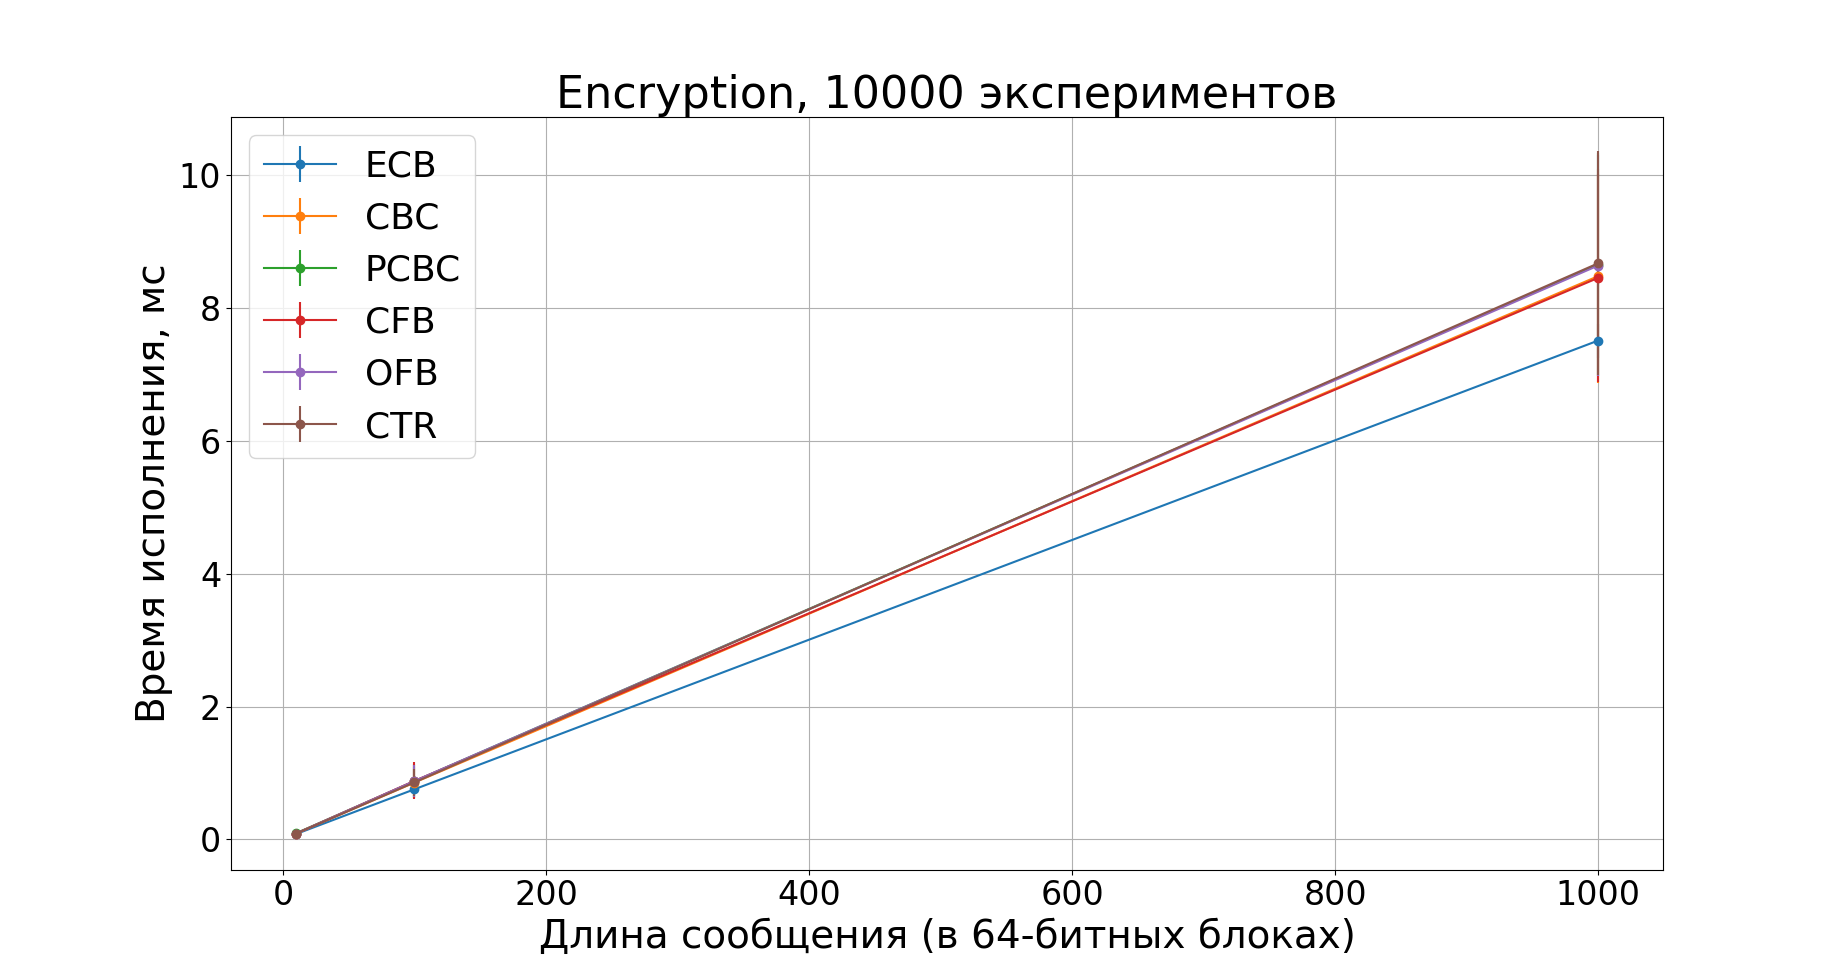
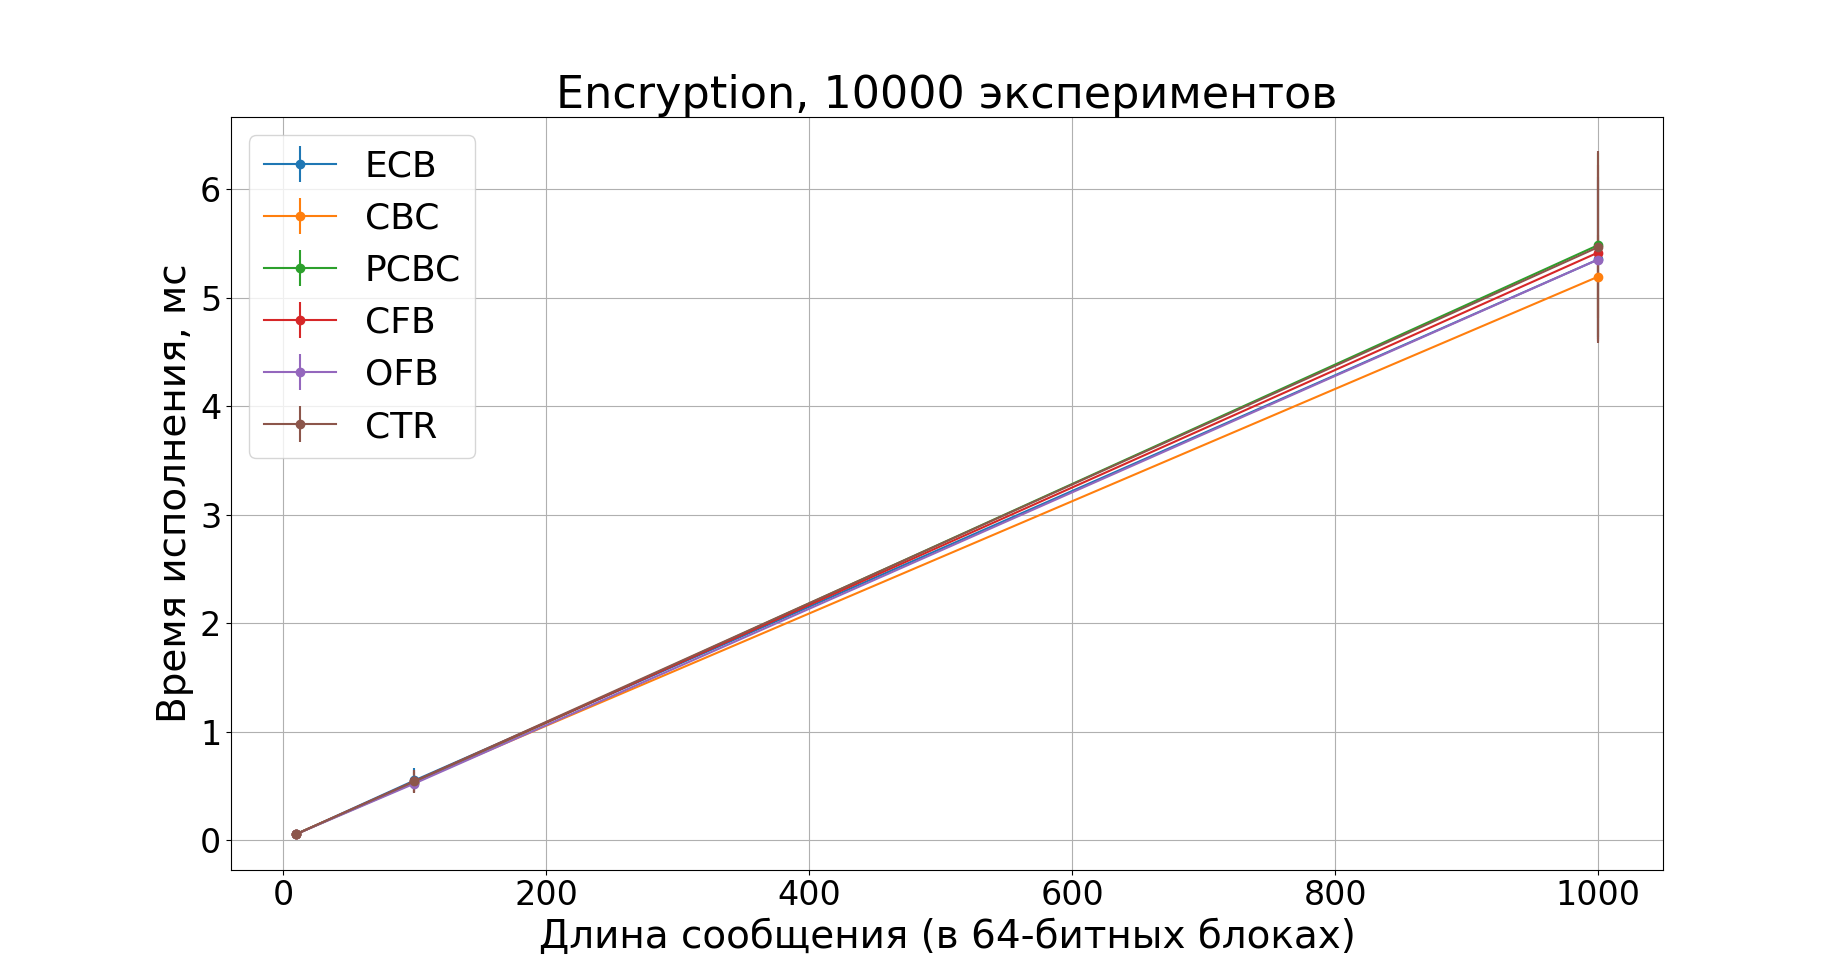
Accelerated DES, removed key expansion from time performance evaluation

diff --git a/DES/des.c b/DES/des.c
@@ -103,7 +103,7 @@ static const uint8_t __P[32] = {
     2 , 8 , 24, 14, 32, 27, 3 , 9 , 19, 13, 30, 6 , 22, 11, 4 , 25,
 };
 
-size_t DES(uint8_t * to, uint8_t mode, uint8_t * keys8b, uint8_t * from, size_t length);
+size_t DES(uint8_t * to, uint8_t mode, uint64_t * keys48b, uint8_t * from, size_t length);
 
 void key_expansion(uint64_t key64b, uint64_t * keys48b);
 void key_permutation_56bits_to_28bits(uint64_t block56b, uint32_t * block32b_1, uint32_t * block32b_2);
@@ -186,6 +186,13 @@ int main(void) {
             user_key[j] = rand() % 256;
         }
         
+        uint64_t keys48b[16] = {0}; // создаются 16 ключей по 48 бит
+
+        key_expansion( // расширение ключа
+            join_8bits_to_64bits(user_key),
+            keys48b
+        );
+
         struct timeval time_1, time_2, time_3;
         
         switch(user_choice) {
@@ -193,13 +200,13 @@ int main(void) {
                 gettimeofday(&time_1, NULL);
                 for (int k = 0; k < number_of_blocks; k++) {
                     extract_block(message, one_block, k);
-                    DES(enc_buf, 'E', user_key, one_block, 8);
+                    DES(enc_buf, 'E', keys48b, one_block, 8);
                     insert_block(cyphertext, enc_buf, k);
                 }
                 gettimeofday(&time_2, NULL);
                 for (int k = 0; k < number_of_blocks; k++) {
                     extract_block(cyphertext, one_block, k);
-                    DES(enc_buf, 'D', user_key, one_block, 8);
+                    DES(enc_buf, 'D', keys48b, one_block, 8);
                     insert_block(decrypted_message, enc_buf, k);
                 }
                 gettimeofday(&time_3, NULL);
@@ -213,26 +220,26 @@ int main(void) {
                 gettimeofday(&time_1, NULL);
                 extract_block(message, one_block, 0);
                 xor_of_two_blocks(one_block, initialize_vector);
-                DES(enc_buf, 'E', user_key, one_block, 8);
+                DES(enc_buf, 'E', keys48b, one_block, 8);
                 insert_block(cyphertext, enc_buf, 0);
 
                 for (int k = 1; k < number_of_blocks; k++) {
                     extract_block(message, one_block, k);
                     xor_of_two_blocks(one_block, enc_buf);
-                    DES(enc_buf, 'E', user_key, one_block, 8);
+                    DES(enc_buf, 'E', keys48b, one_block, 8);
                     insert_block(cyphertext, enc_buf, k);
                 }
                 
                 gettimeofday(&time_2, NULL);
                 
                 extract_block(cyphertext, feedback, 0);
-                DES(enc_buf, 'D', user_key, feedback, 8);
+                DES(enc_buf, 'D', keys48b, feedback, 8);
                 xor_of_two_blocks(enc_buf, initialize_vector);
                 insert_block(decrypted_message, enc_buf, 0);
 
                 for (int k = 1; k < number_of_blocks; k++) {
                     extract_block(cyphertext, tmp_buf, k);
-                    DES(enc_buf, 'D', user_key, tmp_buf, 8);
+                    DES(enc_buf, 'D', keys48b, tmp_buf, 8);
                     xor_of_two_blocks(enc_buf, feedback);
                     copy_block(feedback, tmp_buf);
                     insert_block(decrypted_message, enc_buf, k);
@@ -250,14 +257,14 @@ int main(void) {
                 extract_block(message, one_block, 0);
                 copy_block(feedback, one_block);
                 xor_of_two_blocks(one_block, initialize_vector);
-                DES(enc_buf, 'E', user_key, one_block, 8);
+                DES(enc_buf, 'E', keys48b, one_block, 8);
                 insert_block(cyphertext, enc_buf, 0);
                 xor_of_two_blocks(feedback, enc_buf);
                 for (int k = 1; k < number_of_blocks; k++) {
                     extract_block(message, one_block, k);
                     copy_block(tmp_buf, one_block);
                     xor_of_two_blocks(one_block, feedback);
-                    DES(enc_buf, 'E', user_key, one_block, 8);
+                    DES(enc_buf, 'E', keys48b, one_block, 8);
                     insert_block(cyphertext, enc_buf, k);
                     xor_of_two_blocks(tmp_buf, enc_buf);
                     copy_block(feedback, tmp_buf);
@@ -267,14 +274,14 @@ int main(void) {
 
                 extract_block(cyphertext, one_block, 0);
                 copy_block(feedback, one_block);
-                DES(enc_buf, 'D', user_key, one_block, 8);
+                DES(enc_buf, 'D', keys48b, one_block, 8);
                 xor_of_two_blocks(enc_buf, initialize_vector);
                 insert_block(decrypted_message, enc_buf, 0);
                 xor_of_two_blocks(feedback, enc_buf);
                 for (int k = 1; k < number_of_blocks; k++) {
                     extract_block(cyphertext, one_block, k);
                     copy_block(tmp_buf, one_block);
-                    DES(enc_buf, 'D', user_key, one_block, 8);
+                    DES(enc_buf, 'D', keys48b, one_block, 8);
                     xor_of_two_blocks(enc_buf, feedback);
                     insert_block(decrypted_message, enc_buf, k);
                     xor_of_two_blocks(tmp_buf, enc_buf);
@@ -292,12 +299,12 @@ int main(void) {
 
                 gettimeofday(&time_1, NULL);
 
-                DES(enc_buf, 'E', user_key, initialize_vector, 8);
+                DES(enc_buf, 'E', keys48b, initialize_vector, 8);
                 extract_block(message, one_block, 0);
                 xor_of_two_blocks(one_block, enc_buf);
                 insert_block(cyphertext, one_block, 0);
                 for (int k = 1; k < number_of_blocks; k++) {
-                    DES(enc_buf, 'E', user_key, one_block, 8);
+                    DES(enc_buf, 'E', keys48b, one_block, 8);
                     extract_block(message, one_block, k);
                     xor_of_two_blocks(one_block, enc_buf);
                     insert_block(cyphertext, one_block, k);
@@ -305,12 +312,12 @@ int main(void) {
 
                 gettimeofday(&time_2, NULL);
                 
-                DES(enc_buf, 'E', user_key, initialize_vector, 8);
+                DES(enc_buf, 'E', keys48b, initialize_vector, 8);
                 extract_block(cyphertext, one_block, 0);
                 xor_of_two_blocks(enc_buf, one_block);
                 insert_block(decrypted_message, enc_buf, 0);
                 for (int k = 1; k < number_of_blocks; k++) {
-                    DES(enc_buf, 'E', user_key, one_block, 8);
+                    DES(enc_buf, 'E', keys48b, one_block, 8);
                     extract_block(cyphertext, one_block, k);
                     xor_of_two_blocks(enc_buf, one_block);
                     insert_block(decrypted_message, enc_buf, k);
@@ -326,13 +333,13 @@ int main(void) {
                 
                 gettimeofday(&time_1, NULL);
 
-                DES(enc_buf, 'E', user_key, initialize_vector, 8);
+                DES(enc_buf, 'E', keys48b, initialize_vector, 8);
                 copy_block(feedback, enc_buf);
                 extract_block(message, one_block, 0);
                 xor_of_two_blocks(enc_buf, one_block);
                 insert_block(cyphertext, enc_buf, 0);
                 for (int k = 1; k < number_of_blocks; k++) {
-                    DES(enc_buf, 'E', user_key, feedback, 8);
+                    DES(enc_buf, 'E', keys48b, feedback, 8);
                     copy_block(feedback, enc_buf);
                     extract_block(message, one_block, k);
                     xor_of_two_blocks(enc_buf, one_block);
@@ -341,13 +348,13 @@ int main(void) {
                 
                 gettimeofday(&time_2, NULL);
                 
-                DES(enc_buf, 'E', user_key, initialize_vector, 8);
+                DES(enc_buf, 'E', keys48b, initialize_vector, 8);
                 copy_block(feedback, enc_buf);
                 extract_block(cyphertext, one_block, 0);
                 xor_of_two_blocks(enc_buf, one_block);
                 insert_block(decrypted_message, enc_buf, 0);
                 for (int k = 1; k < number_of_blocks; k++) {
-                    DES(enc_buf, 'E', user_key, feedback, 8);
+                    DES(enc_buf, 'E', keys48b, feedback, 8);
                     copy_block(feedback, enc_buf);
                     extract_block(cyphertext, one_block, k);
                     xor_of_two_blocks(enc_buf, one_block);
@@ -367,7 +374,7 @@ int main(void) {
                 for (int k = 0; k < number_of_blocks; k++) {
                     counter[8 - 2] = k / 256;
                     counter[8 - 1] = k % 256;
-                    DES(enc_buf, 'E', user_key, counter, 8);
+                    DES(enc_buf, 'E', keys48b, counter, 8);
                     extract_block(message, one_block, k);
                     xor_of_two_blocks(enc_buf, one_block);
                     insert_block(cyphertext, enc_buf, k);
@@ -378,7 +385,7 @@ int main(void) {
                 for (int k = 0; k < number_of_blocks; k++) {
                     counter[8 - 2] = k / 256;
                     counter[8 - 1] = k % 256;
-                    DES(enc_buf, 'E', user_key, counter, 8);
+                    DES(enc_buf, 'E', keys48b, counter, 8);
                     extract_block(cyphertext, one_block, k);
                     xor_of_two_blocks(enc_buf, one_block);
                     insert_block(decrypted_message, enc_buf, k);
@@ -446,16 +453,16 @@ int main(void) {
     return 0;
 }
 
-size_t DES(uint8_t * to, uint8_t mode, uint8_t * keys8b, uint8_t * from, size_t length) {
+size_t DES(uint8_t * to, uint8_t mode, uint64_t * keys48b, uint8_t * from, size_t length) {
     length = length % 8 == 0 ? length : length + (8 - (length % 8)); // выравние длины ключа под блок 8 байт
     
-    uint64_t keys48b[16] = {0}; // создаются 16 ключей по 48 бит
+    //uint64_t keys48b[16] = {0}; // создаются 16 ключей по 48 бит
     uint32_t N1, N2; // левый и правые блоки соответственно
 
-    key_expansion( // расширение ключа
+    /*key_expansion( // расширение ключа
         join_8bits_to_64bits(keys8b), 
         keys48b
-    );
+    );*/
 
     for (size_t i = 0; i < length; i += 8) {
         split_64bits_to_32bits( // сливаем 8-байтовый блок в один 64-битный блок

diff --git a/DES/comparison_of_Blowfish_and_DES.py b/DES/comparison_of_Blowfish_and_DES.py
@@ -5,52 +5,51 @@ NumOfBlocks_for_DES = [pow(10, i + 1) for i in range(3)]
 
 # ECB (1)
 
-ECB_encryption_DES = np.array([0.081832, 0.755412, 7.509637])
-ECB_decryption_DES= np.array([0.081749, 0.754958, 7.500610])
+ECB_encryption_DES = np.array([0.057399, 0.552944, 5.352524])
+ECB_decryption_DES = np.array([0.057365, 0.551652, 5.328100])
 
-ECB_encryption_std_DES = np.array([0.012183, 0.026151, 0.254769])
-ECB_decryption_std_DES = np.array([0.011849, 0.025180, 0.177836])
+ECB_encryption_std_DES = np.array([0.005487, 0.112644, 0.735063])
+ECB_decryption_std_DES = np.array([0.005396, 0.113515, 0.709034])
 
 # CBC (2)
 
-CBC_encryption_DES = np.array([0.089082, 0.857085, 8.479485])
-CBC_decryption_DES = np.array([0.089053, 0.860029, 8.515597])
+CBC_encryption_DES = np.array([0.058923, 0.538595, 5.194137])
+CBC_decryption_DES = np.array([0.059031, 0.539035, 5.219954])
 
-CBC_encryption_std_DES = np.array([0.026347, 0.239483, 1.608684])
-CBC_decryption_std_DES = np.array([0.025638, 0.241172, 1.607775])
+CBC_encryption_std_DES = np.array([0.009153, 0.088239, 0.380838])
+CBC_decryption_std_DES = np.array([0.010136, 0.083961, 0.350033])
 
 # PCBC (3)
 
-PCBC_encryption_DES = np.array([0.093276, 0.877241, 8.654829])
-PCBC_decryption_DES = np.array([0.093167, 0.877875, 8.658609])
+PCBC_encryption_DES = np.array([0.059292, 0.532469, 5.484848])
+PCBC_decryption_DES = np.array([0.058972, 0.530236, 5.474984])
 
-PCBC_encryption_std_DES = np.array([0.031211, 0.256998, 1.672714])
-PCBC_decryption_std_DES = np.array([0.030999, 0.253920, 1.637694])
+PCBC_encryption_std_DES = np.array([0.010031, 0.054795, 0.844884])
+PCBC_decryption_std_DES = np.array([0.009853, 0.057040, 0.845736])
 
 # CFB (4)
 
-CFB_encryption_DES = np.array([0.088713, 0.880506, 8.453465])
-CFB_decryption_DES = np.array([0.088544, 0.879843, 8.508793])
+CFB_encryption_DES = np.array([0.057238, 0.544991, 5.416663])
+CFB_decryption_DES = np.array([0.057234, 0.544128, 5.410549])
 
-CFB_encryption_std_DES = np.array([0.025634, 0.278133, 1.566999])
-CFB_decryption_std_DES = np.array([0.025157, 0.263218, 1.660604])
+CFB_encryption_std_DES = np.array([0.010095, 0.101883, 0.810590])
+CFB_decryption_std_DES = np.array([0.009900, 0.100705, 0.791703])
 
 # OFB (5)
 
-OFB_encryption_DES = np.array([0.087837, 0.878865, 8.638903])
-OFB_decryption_DES = np.array([0.087913, 0.879435, 8.627442])
+OFB_encryption_DES = np.array([0.058239, 0.524647, 5.352304])
+OFB_decryption_DES = np.array([0.058405, 0.526437, 5.348848])
 
-OFB_encryption_std_DES = np.array([0.025665, 0.242433, 1.668572])
-OFB_decryption_std_DES = np.array([0.027389, 0.245298, 1.616948])
+OFB_encryption_std_DES = np.array([0.009481, 0.032734, 0.763953])
+OFB_decryption_std_DES = np.array([0.009505, 0.033434, 0.708635])
 
 # CTR (6)
 
-CTR_encryption_DES = np.array([0.088141, 0.859550, 8.672700])
-CTR_decryption_DES = np.array([0.088028, 0.858267, 8.689559])
+CTR_encryption_DES = np.array([0.057531, 0.544885, 5.466048])
+CTR_decryption_DES = np.array([0.057411, 0.544955, 5.458344])
 
-CTR_encryption_std_DES = np.array([0.024825, 0.205662, 1.684348])
-CTR_decryption_std_DES = np.array([0.023391, 0.205526, 1.708839])
-
+CTR_encryption_std_DES = np.array([0.007034, 0.104830, 0.882041])
+CTR_decryption_std_DES = np.array([0.007046, 0.103829, 0.867002])
 
 
 NumOfBlocks_for_Blowfish = [pow(10, i + 1) for i in range(4)]

diff --git a/DES/different_modes.py b/DES/different_modes.py
@@ -5,51 +5,51 @@ NumOfBlocks = [pow(10, i + 1) for i in range(3)]
 
 # ECB (1)
 
-ECB_encryption = np.array([0.081832, 0.755412, 7.509637])
-ECB_decryption = np.array([0.081749, 0.754958, 7.500610])
+ECB_encryption = np.array([0.057399, 0.552944, 5.352524])
+ECB_decryption = np.array([0.057365, 0.551652, 5.328100])
 
-ECB_encryption_std = np.array([0.012183, 0.026151, 0.254769])
-ECB_decryption_std = np.array([0.011849, 0.025180, 0.177836])
+ECB_encryption_std = np.array([0.005487, 0.112644, 0.735063])
+ECB_decryption_std = np.array([0.005396, 0.113515, 0.709034])
 
 # CBC (2)
 
-CBC_encryption = np.array([0.089082, 0.857085, 8.479485])
-CBC_decryption = np.array([0.089053, 0.860029, 8.515597])
+CBC_encryption = np.array([0.058923, 0.538595, 5.194137])
+CBC_decryption = np.array([0.059031, 0.539035, 5.219954])
 
-CBC_encryption_std = np.array([0.026347, 0.239483, 1.608684])
-CBC_decryption_std = np.array([0.025638, 0.241172, 1.607775])
+CBC_encryption_std = np.array([0.009153, 0.088239, 0.380838])
+CBC_decryption_std = np.array([0.010136, 0.083961, 0.350033])
 
 # PCBC (3)
 
-PCBC_encryption = np.array([0.093276, 0.877241, 8.654829])
-PCBC_decryption = np.array([0.093167, 0.877875, 8.658609])
+PCBC_encryption = np.array([0.059292, 0.532469, 5.484848])
+PCBC_decryption = np.array([0.058972, 0.530236, 5.474984])
 
-PCBC_encryption_std = np.array([0.031211, 0.256998, 1.672714])
-PCBC_decryption_std = np.array([0.030999, 0.253920, 1.637694])
+PCBC_encryption_std = np.array([0.010031, 0.054795, 0.844884])
+PCBC_decryption_std = np.array([0.009853, 0.057040, 0.845736])
 
 # CFB (4)
 
-CFB_encryption = np.array([0.088713, 0.880506, 8.453465])
-CFB_decryption = np.array([0.088544, 0.879843, 8.508793])
+CFB_encryption = np.array([0.057238, 0.544991, 5.416663])
+CFB_decryption = np.array([0.057234, 0.544128, 5.410549])
 
-CFB_encryption_std = np.array([0.025634, 0.278133, 1.566999])
-CFB_decryption_std = np.array([0.025157, 0.263218, 1.660604])
+CFB_encryption_std = np.array([0.010095, 0.101883, 0.810590])
+CFB_decryption_std = np.array([0.009900, 0.100705, 0.791703])
 
 # OFB (5)
 
-OFB_encryption = np.array([0.087837, 0.878865, 8.638903])
-OFB_decryption = np.array([0.087913, 0.879435, 8.627442])
+OFB_encryption = np.array([0.058239, 0.524647, 5.352304])
+OFB_decryption = np.array([0.058405, 0.526437, 5.348848])
 
-OFB_encryption_std = np.array([0.025665, 0.242433, 1.668572])
-OFB_decryption_std = np.array([0.027389, 0.245298, 1.616948])
+OFB_encryption_std = np.array([0.009481, 0.032734, 0.763953])
+OFB_decryption_std = np.array([0.009505, 0.033434, 0.708635])
 
 # CTR (6)
 
-CTR_encryption = np.array([0.088141, 0.859550, 8.672700])
-CTR_decryption = np.array([0.088028, 0.858267, 8.689559])
+CTR_encryption = np.array([0.057531, 0.544885, 5.466048])
+CTR_decryption = np.array([0.057411, 0.544955, 5.458344])
 
-CTR_encryption_std = np.array([0.024825, 0.205662, 1.684348])
-CTR_decryption_std = np.array([0.023391, 0.205526, 1.708839])
+CTR_encryption_std = np.array([0.007034, 0.104830, 0.882041])
+CTR_decryption_std = np.array([0.007046, 0.103829, 0.867002])
 
 plt.title("Encryption, 10000 экспериментов", size=32)
 plt.xlabel('Длина сообщения (в 64-битных блоках)', size=28)
